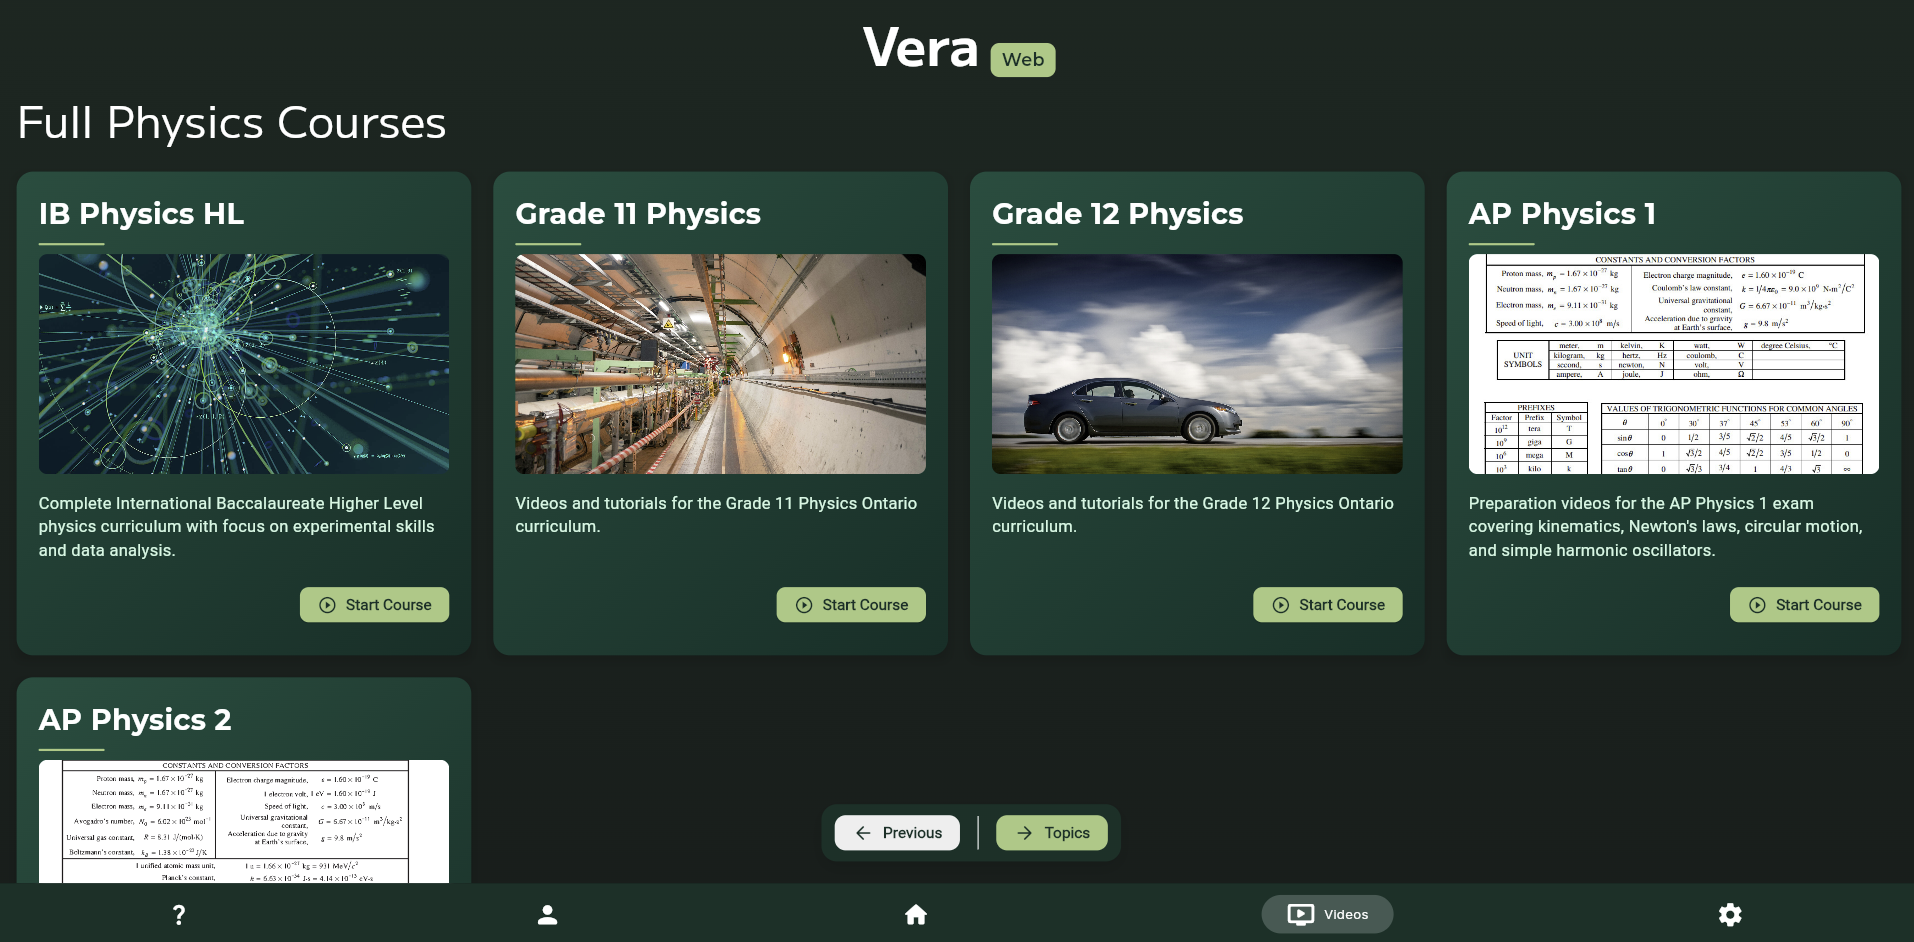
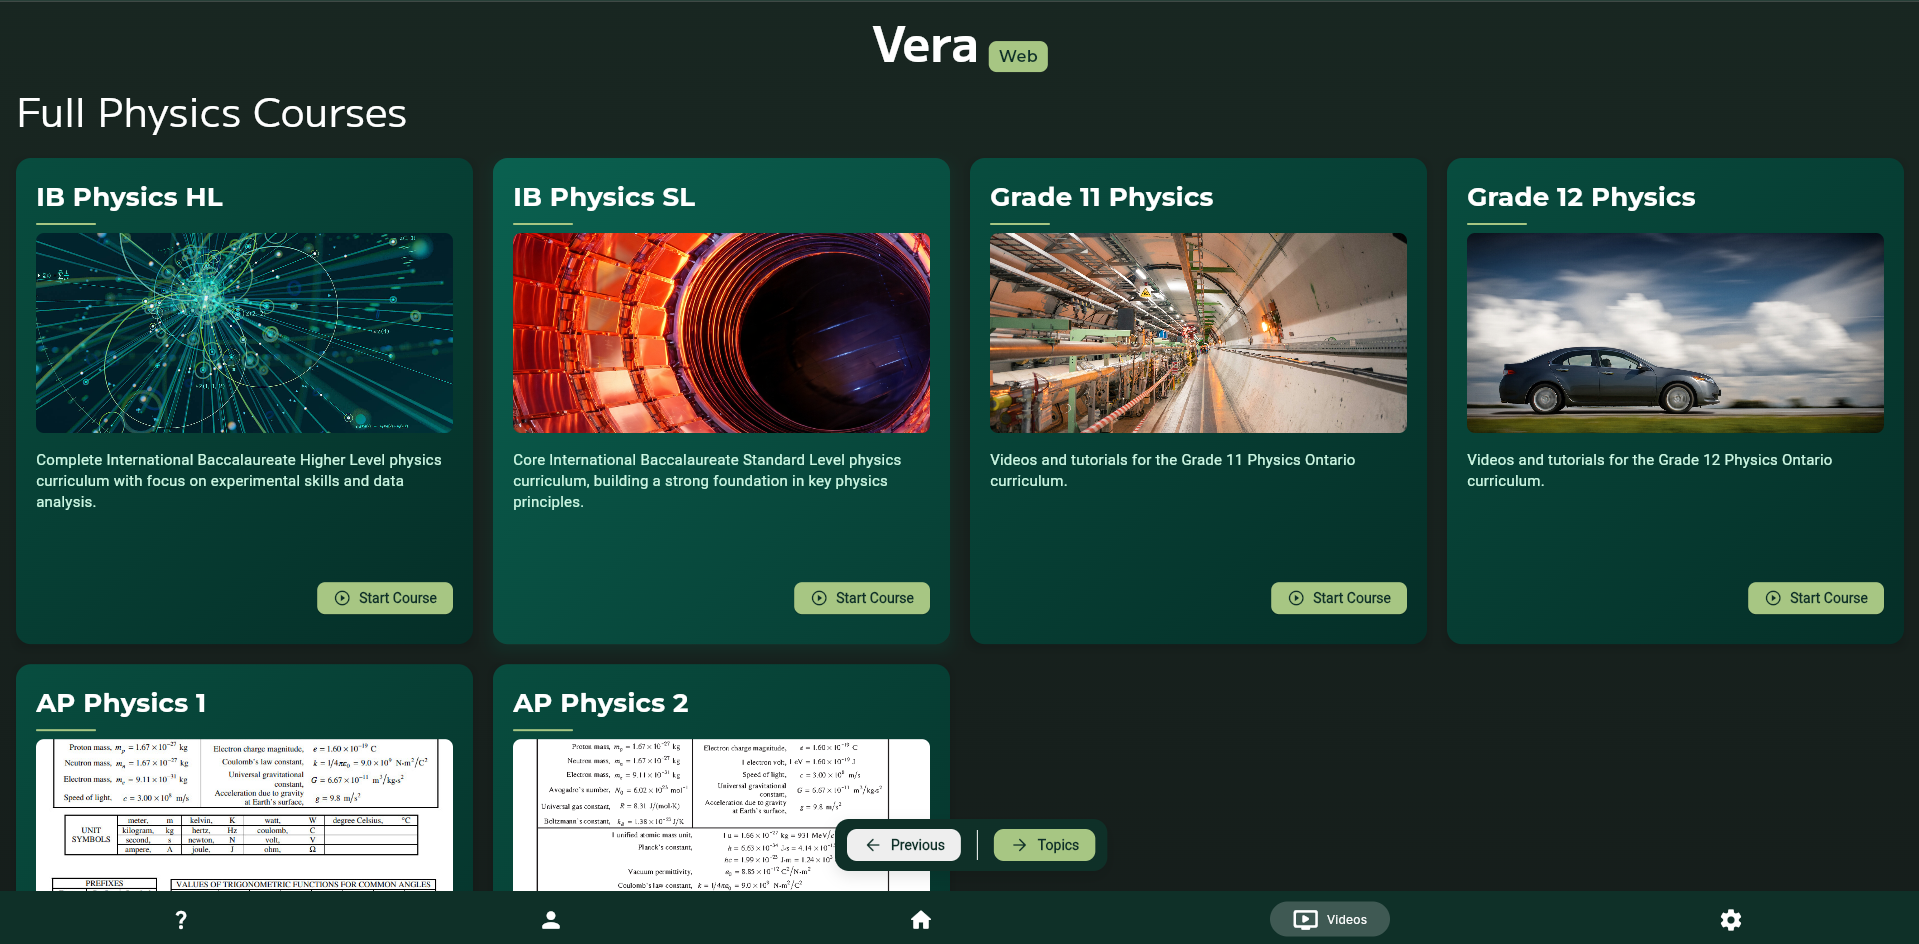
reordered topics, finalized project

diff --git a/coolapp/lib/views/pages/videos/video_pages/courses_page.dart b/coolapp/lib/views/pages/videos/video_pages/courses_page.dart
@@ -257,20 +257,6 @@ class _CoursePageState extends State<CoursePage> {
       'videoPage': IbPhysicsSl(),
     },
     {
-      'title': 'Grade 11 Physics',
-      'imagePath': 'images/physics_11.jpg',
-      'description':
-          'Videos and tutorials for the Grade 11 Physics Ontario curriculum.',
-      'videoPage': Grade11Physics(),
-    },
-    {
-      'title': 'Grade 12 Physics',
-      'imagePath': 'images/physics_12.jpg',
-      'description':
-          'Videos and tutorials for the Grade 12 Physics Ontario curriculum.',
-      'videoPage': Grade12Physics(),
-    },
-    {
       'title': 'AP Physics 1',
       'imagePath': 'images/ap_courses.jpg',
       'description':
@@ -283,6 +269,20 @@ class _CoursePageState extends State<CoursePage> {
       'description':
           'Algebra-based physics covering fluid mechanics, thermodynamics, electricity, magnetism, optics, and quantum phenomena',
       'videoPage': ApPhysics2(),
+    },
+    {
+      'title': 'Grade 11 Physics',
+      'imagePath': 'images/physics_11.jpg',
+      'description':
+          'Videos and tutorials for the Grade 11 Physics Ontario curriculum.',
+      'videoPage': Grade11Physics(),
+    },
+    {
+      'title': 'Grade 12 Physics',
+      'imagePath': 'images/physics_12.jpg',
+      'description':
+          'Videos and tutorials for the Grade 12 Physics Ontario curriculum.',
+      'videoPage': Grade12Physics(),
     },
   ];
   @override

diff --git a/coolapp/lib/views/pages/get_started/get_started.dart b/coolapp/lib/views/pages/get_started/get_started.dart
@@ -182,10 +182,7 @@ class _AboutThisAppPageState extends State<AboutThisAppPage> {
                       final uri = Uri(
                         scheme: 'mailto',
                         path: 'eric.luchenyu@gmail.com',
-                        queryParameters: {
-                          'subject': 'Vera Support',
-                          'body': 'Hi Vera team,',
-                        },
+                        queryParameters: {},
                       );
                       launchUrl(uri, mode: LaunchMode.externalApplication);
                     },
